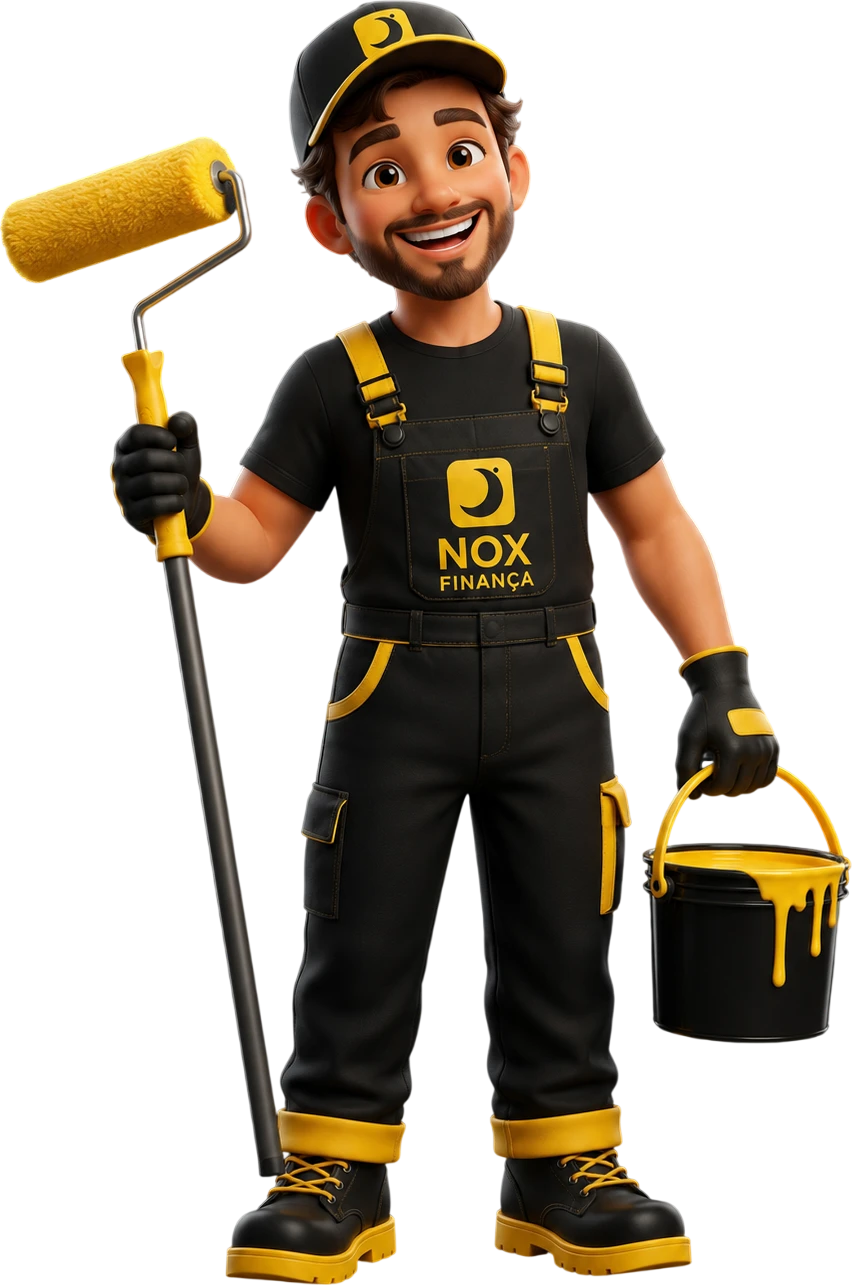
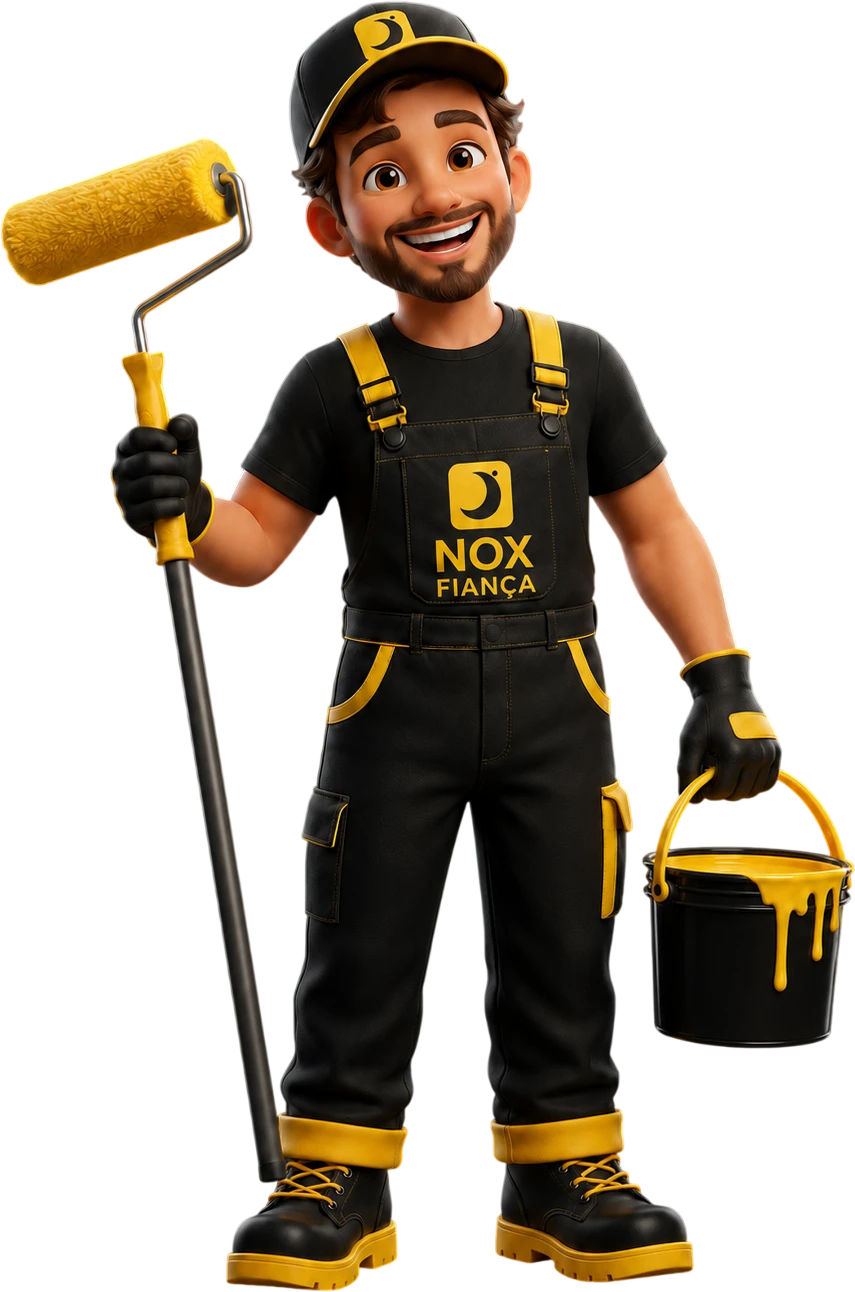
fix: reestrutura cards de extras com layout flex e novos personagens
- Troca layout de posicionamento absoluto por flex row (texto à esquerda,
  personagem centralizado verticalmente à direita) — elimina o espaço em
  branco acima/abaixo do personagem.
- Aumenta os personagens (h-40 mobile / h-56 desktop).
- Troca as imagens de Pintura interna e Taxa de ativação pelas novas
  versões enviadas.

diff --git a/src/components/simulacao/SeletorPlanos.tsx b/src/components/simulacao/SeletorPlanos.tsx
@@ -552,38 +552,31 @@ export function SeletorPlanos({
               <motion.div
                 layout
                 onClick={() => setPinturaEnabled(v => !v)}
-                className={`relative overflow-hidden min-h-[360px] p-5 rounded-2xl border-2 cursor-pointer transition-all duration-300 flex flex-col ${
+                className={`relative overflow-hidden p-5 rounded-2xl border-2 cursor-pointer transition-all duration-300 flex flex-col md:flex-row md:items-center gap-3 md:gap-4 ${
                   pinturaEnabled
                     ? 'bg-neutral-900 border-neutral-900 shadow-xl shadow-neutral-200'
                     : 'bg-white border-neutral-100 hover:border-yellow-400 hover:shadow-md'
                 }`}
               >
-                <div className="relative flex items-center justify-between mb-3">
-                  <div className={`w-9 h-9 rounded-xl flex items-center justify-center ${
-                    pinturaEnabled ? 'bg-yellow-400 text-neutral-900' : 'bg-neutral-100 text-neutral-700'
-                  }`}>
-                    <PaintRoller size={16} />
+                <div className="flex-1 min-w-0">
+                  <div className="flex items-center justify-between mb-3">
+                    <div className={`w-9 h-9 rounded-xl flex items-center justify-center ${
+                      pinturaEnabled ? 'bg-yellow-400 text-neutral-900' : 'bg-neutral-100 text-neutral-700'
+                    }`}>
+                      <PaintRoller size={16} />
+                    </div>
+                    <span className={`text-[9px] font-black uppercase tracking-[0.18em] px-2 py-0.5 rounded-full ${
+                      pinturaEnabled ? 'bg-yellow-400 text-neutral-900' : 'bg-orange-50 text-orange-600'
+                    }`}>
+                      Opcional
+                    </span>
                   </div>
-                  <span className={`text-[9px] font-black uppercase tracking-[0.18em] px-2 py-0.5 rounded-full ${
-                    pinturaEnabled ? 'bg-yellow-400 text-neutral-900' : 'bg-orange-50 text-orange-600'
-                  }`}>
-                    Opcional
-                  </span>
-                </div>
-                <h3 className={`relative text-base font-black tracking-tight ${pinturaEnabled ? 'text-white' : 'text-neutral-900'}`}>
-                  Pintura interna
-                </h3>
-                <p className={`relative md:max-w-[180px] text-[11px] font-medium mb-3 mt-0.5 ${pinturaEnabled ? 'text-neutral-400' : 'text-neutral-500'}`}>
-                  Reforce a proteção do imóvel com cobertura de pintura interna.
-                </p>
-                {/* Mobile: imagem em fluxo normal, centralizada, sem risco de sobrepor o texto.
-                    Em sm+, vira decoração absoluta no canto inferior direito do card. */}
-                <img
-                  src="/assets/nox-pintura-personagem.webp"
-                  alt="Personagem NOX Fiança pintor, representando a cobertura de pintura interna"
-                  className="pointer-events-none select-none block mx-auto h-36 w-auto object-contain md:absolute md:m-0 md:right-2 md:bottom-2 md:h-44 md:object-bottom"
-                />
-                <div className="relative mt-3 md:max-w-[180px]">
+                  <h3 className={`text-base font-black tracking-tight ${pinturaEnabled ? 'text-white' : 'text-neutral-900'}`}>
+                    Pintura interna
+                  </h3>
+                  <p className={`text-[11px] font-medium mb-3 mt-0.5 ${pinturaEnabled ? 'text-neutral-400' : 'text-neutral-500'}`}>
+                    Reforce a proteção do imóvel com cobertura de pintura interna.
+                  </p>
                   <div className="flex items-baseline gap-1 mb-0.5">
                     <span className={`text-sm font-black ${pinturaEnabled ? 'text-yellow-400' : 'text-orange-500'}`}>+</span>
                     <span className={`text-xl font-black tracking-tight ${pinturaEnabled ? 'text-white' : 'text-neutral-900'}`}>
@@ -617,88 +610,96 @@ export function SeletorPlanos({
                     {pinturaEnabled ? (<><CheckCircle2 size={12} className="text-green-500" /> Adicionado · remover</>) : 'Adicionar'}
                   </div>
                 </div>
+                <div className="flex justify-center md:justify-end shrink-0">
+                  <img
+                    src="/assets/nox-pintura-personagem.webp"
+                    alt="Personagem NOX Fiança pintor, representando a cobertura de pintura interna"
+                    className="pointer-events-none select-none h-40 md:h-56 w-auto"
+                  />
+                </div>
               </motion.div>
 
 
               {/* Taxa de ativação */}
               <motion.div
                 layout
-                className={`relative overflow-hidden min-h-[360px] p-5 rounded-2xl border-2 transition-all duration-300 flex flex-col ${
+                className={`relative overflow-hidden p-5 rounded-2xl border-2 transition-all duration-300 flex flex-col md:flex-row md:items-center gap-3 md:gap-4 ${
                   activationAmount > 0
                     ? 'bg-neutral-900 border-neutral-900 shadow-xl shadow-neutral-200'
                     : 'bg-white border-neutral-100 hover:border-yellow-400 hover:shadow-md'
                 }`}
               >
-                <div className="relative flex items-center justify-between mb-3">
-                  <div className={`w-9 h-9 rounded-xl flex items-center justify-center ${
-                    activationAmount > 0 ? 'bg-yellow-400 text-neutral-900' : 'bg-neutral-100 text-neutral-700'
-                  }`}>
-                    <Sparkles size={16} />
-                  </div>
-                  <span className={`text-[9px] font-black uppercase tracking-[0.18em] px-2 py-0.5 rounded-full ${
-                    activationAmount > 0 ? 'bg-yellow-400 text-neutral-900' : 'bg-orange-50 text-orange-600'
-                  }`}>
-                    Opcional
-                  </span>
-                </div>
-                <h3 className={`relative text-base font-black tracking-tight ${activationAmount > 0 ? 'text-white' : 'text-neutral-900'}`}>
-                  Taxa de ativação
-                </h3>
-                <p className={`relative md:max-w-[180px] text-[11px] font-medium mb-3 mt-0.5 ${activationAmount > 0 ? 'text-neutral-400' : 'text-neutral-500'}`}>
-                  Defina uma taxa opcional de ativação para o novo contrato.
-                </p>
-
-                <Select
-                  value={String(activationAmount)}
-                  onValueChange={(v) => setActivationAmount(Number(v))}
-                >
-                  <SelectTrigger
-                    className={`relative md:max-w-[180px] h-10 rounded-xl text-xs font-bold ${
-                      activationAmount > 0
-                        ? 'bg-neutral-800 border-neutral-700 text-white hover:bg-neutral-700'
-                        : 'bg-white border-neutral-200 text-neutral-900'
-                    }`}
-                  >
-                    <SelectValue placeholder="Selecione a taxa de ativação" />
-                  </SelectTrigger>
-                  <SelectContent>
-                    <SelectItem value="0">Sem taxa</SelectItem>
-                    {ACTIVATION_FEE_OPTIONS.map(opt => (
-                      <SelectItem key={opt.value} value={String(opt.value)}>
-                        {opt.label}
-                      </SelectItem>
-                    ))}
-                  </SelectContent>
-                </Select>
-
-                {/* Mobile: imagem em fluxo normal, centralizada. Em sm+, vira decoração
-                    absoluta no canto inferior direito do card, como no card de Pintura. */}
-                <img
-                  src="/assets/nox-ativacao-personagem.webp"
-                  alt="Personagem NOX Fiança segurando prancheta de taxa de ativação"
-                  className="pointer-events-none select-none block mx-auto mt-3 h-36 w-auto object-contain md:absolute md:m-0 md:right-2 md:bottom-2 md:h-44 md:object-bottom"
-                />
-
-                <div className="relative mt-3 md:max-w-[180px]">
-                  {activationAmount > 0 ? (
-                    <div className="pt-3 border-t border-neutral-800 space-y-1">
-                      <div className="flex items-center justify-between">
-                        <span className="text-[10px] font-bold uppercase tracking-wider text-neutral-400">Taxa escolhida</span>
-                        <span className="text-sm font-black text-white">{formatarBRL(activationAmount)}</span>
-                      </div>
-                      <div className="flex items-center justify-between">
-                        <span className="text-[10px] font-bold uppercase tracking-wider text-neutral-400">Comissão do corretor</span>
-                        <span className="text-sm font-black text-yellow-400">{formatarBRL(activationCommission)}</span>
-                      </div>
-                      <p className="text-[10px] font-medium text-neutral-500 pt-1">
-                        Parte da taxa de ativação é convertida em comissão para o corretor/imobiliária.
-                      </p>
+                <div className="flex-1 min-w-0">
+                  <div className="flex items-center justify-between mb-3">
+                    <div className={`w-9 h-9 rounded-xl flex items-center justify-center ${
+                      activationAmount > 0 ? 'bg-yellow-400 text-neutral-900' : 'bg-neutral-100 text-neutral-700'
+                    }`}>
+                      <Sparkles size={16} />
                     </div>
-                  ) : (
-                    <p className="text-[10px] font-medium text-neutral-400 pt-3 border-t border-neutral-100">
-                      Ao contratar este extra, o corretor recebe 50% da taxa de ativação.
-                    </p>
-                  )}
+                    <span className={`text-[9px] font-black uppercase tracking-[0.18em] px-2 py-0.5 rounded-full ${
+                      activationAmount > 0 ? 'bg-yellow-400 text-neutral-900' : 'bg-orange-50 text-orange-600'
+                    }`}>
+                      Opcional
+                    </span>
+                  </div>
+                  <h3 className={`text-base font-black tracking-tight ${activationAmount > 0 ? 'text-white' : 'text-neutral-900'}`}>
+                    Taxa de ativação
+                  </h3>
+                  <p className={`text-[11px] font-medium mb-3 mt-0.5 ${activationAmount > 0 ? 'text-neutral-400' : 'text-neutral-500'}`}>
+                    Defina uma taxa opcional de ativação para o novo contrato.
+                  </p>
+
+                  <Select
+                    value={String(activationAmount)}
+                    onValueChange={(v) => setActivationAmount(Number(v))}
+                  >
+                    <SelectTrigger
+                      className={`h-10 rounded-xl text-xs font-bold ${
+                        activationAmount > 0
+                          ? 'bg-neutral-800 border-neutral-700 text-white hover:bg-neutral-700'
+                          : 'bg-white border-neutral-200 text-neutral-900'
+                      }`}
+                    >
+                      <SelectValue placeholder="Selecione a taxa de ativação" />
+                    </SelectTrigger>
+                    <SelectContent>
+                      <SelectItem value="0">Sem taxa</SelectItem>
+                      {ACTIVATION_FEE_OPTIONS.map(opt => (
+                        <SelectItem key={opt.value} value={String(opt.value)}>
+                          {opt.label}
+                        </SelectItem>
+                      ))}
+                    </SelectContent>
+                  </Select>
+
+                  <div className="mt-3">
+                    {activationAmount > 0 ? (
+                      <div className="pt-3 border-t border-neutral-800 space-y-1">
+                        <div className="flex items-center justify-between">
+                          <span className="text-[10px] font-bold uppercase tracking-wider text-neutral-400">Taxa escolhida</span>
+                          <span className="text-sm font-black text-white">{formatarBRL(activationAmount)}</span>
+                        </div>
+                        <div className="flex items-center justify-between">
+                          <span className="text-[10px] font-bold uppercase tracking-wider text-neutral-400">Comissão do corretor</span>
+                          <span className="text-sm font-black text-yellow-400">{formatarBRL(activationCommission)}</span>
+                        </div>
+                        <p className="text-[10px] font-medium text-neutral-500 pt-1">
+                          Parte da taxa de ativação é convertida em comissão para o corretor/imobiliária.
+                        </p>
+                      </div>
+                    ) : (
+                      <p className="text-[10px] font-medium text-neutral-400 pt-3 border-t border-neutral-100">
+                        Ao contratar este extra, o corretor recebe 50% da taxa de ativação.
+                      </p>
+                    )}
+                  </div>
+                </div>
+                <div className="flex justify-center md:justify-end shrink-0">
+                  <img
+                    src="/assets/nox-ativacao-personagem.webp"
+                    alt="Personagem NOX Fiança segurando prancheta de taxa de ativação"
+                    className="pointer-events-none select-none h-40 md:h-56 w-auto"
+                  />
                 </div>
               </motion.div>
 